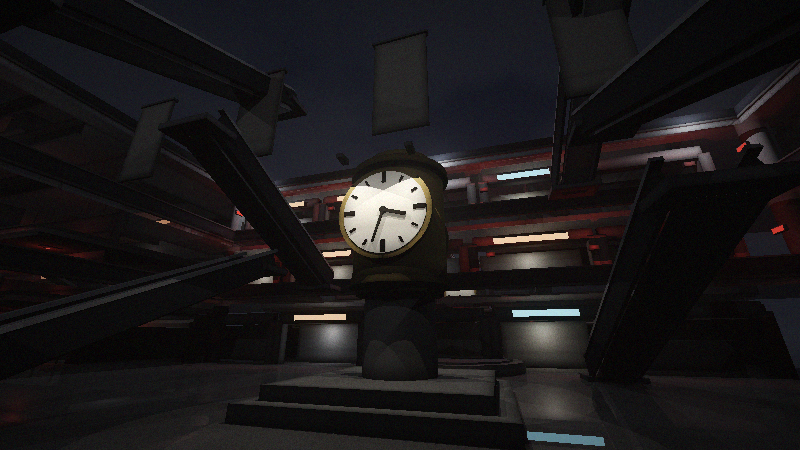
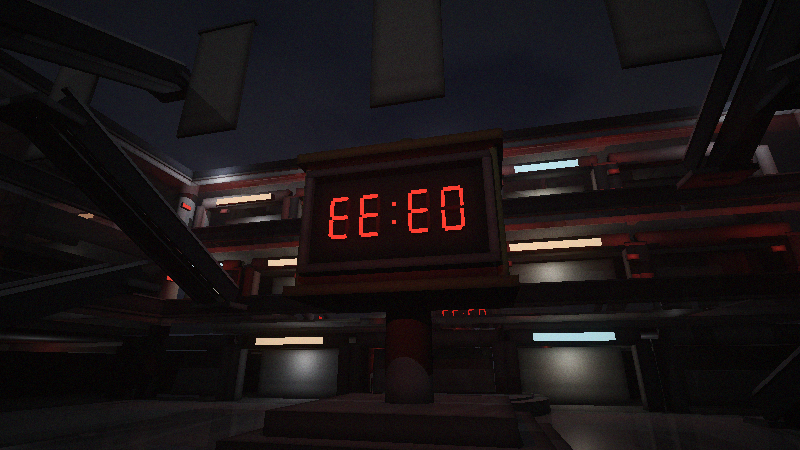
Mirror the far display so both faces read the right way round
The clock carries two displays, one facing each way down the atrium, and both
were built with the digits running in the same direction along x. Correct from
one side, backwards from the other — the render came back reading EE:E0, which
is 03:33 seen from behind.

seven_segment now takes a mirror flag that lays the digits out along -x and
flips each digit's segments with them.

Claude-Session: https://claude.ai/code/session_01PL67pvsK6pHA19We7AHrGb

diff --git a/night-shift/tools/preview_render.py b/night-shift/tools/preview_render.py
@@ -563,32 +563,37 @@ SEG_GEOM = {
 }
 
 
-def seven_segment(text, centre, digit_h=1.05, gap=0.30, depth=0.07,
+def seven_segment(text, centre, digit_h=1.05, gap=0.30, depth=0.07, mirror=False,
                   lit=(2.0, 0.050, 0.035), unlit=(0.010, 0.002, 0.002)):
     """A 1986 LED display. Unlit segments stay faintly visible, which is what
-    makes a seven-segment panel read as a device rather than as a texture."""
+    makes a seven-segment panel read as a device rather than as a texture.
+
+    `mirror` lays the digits out along -x instead of +x, for the panel whose
+    face points the other way down the atrium. Without it one of the two reads
+    backwards, which is exactly the sort of thing you only notice in a render.
+    """
     cx, cy, cz = centre
     scale = digit_h / 2.0
     digit_w = 1.10 * scale
+    m = -1.0 if mirror else 1.0
 
-    slots = [(ch, i) for i, ch in enumerate(text)]
-    total = sum(0.42 * digit_w if ch == ":" else digit_w for ch, _ in slots)
-    total += gap * (len(slots) - 1)
-    x = cx - total / 2
+    total = sum(0.42 * digit_w if ch == ":" else digit_w for ch in text)
+    total += gap * (len(text) - 1)
+    x = cx - m * total / 2
 
-    for ch, _ in slots:
+    for ch in text:
         if ch == ":":
             for dy in (0.42, -0.42):
-                box([x + 0.21 * digit_w, cy + dy * scale, cz],
+                box([x + m * 0.21 * digit_w, cy + dy * scale, cz],
                     [0.15 * scale, 0.15 * scale, depth], "sign", emissive=lit)
-            x += 0.42 * digit_w + gap
+            x += m * (0.42 * digit_w + gap)
             continue
         on = SEGMENTS.get(ch, "")
         for seg, (dx, dy, w, h) in SEG_GEOM.items():
-            box([x + digit_w / 2 + dx * scale, cy + dy * scale, cz],
+            box([x + m * (digit_w / 2 + dx * scale), cy + dy * scale, cz],
                 [max(w, 0.02) * scale, max(h, 0.02) * scale, depth],
                 "sign", emissive=lit if seg in on else unlit)
-        x += digit_w + gap
+        x += m * (digit_w + gap)
 
 
 def build_clock():
@@ -623,7 +628,8 @@ def build_clock():
     for face in (-1, 1):
         zf = cz + face * 1.52
         box([cx, 5.80, zf], [4.7, 2.5, 0.14], "hand")                 # backing
-        seven_segment("03:33", [cx, 5.80, zf + face * 0.11], digit_h=1.15, gap=0.20)
+        seven_segment("03:33", [cx, 5.80, zf + face * 0.11], digit_h=1.15, gap=0.20,
+                      mirror=(face < 0))
 
         # The bezel is a frame, not a plate.
         for dy in (1.34, -1.34):
